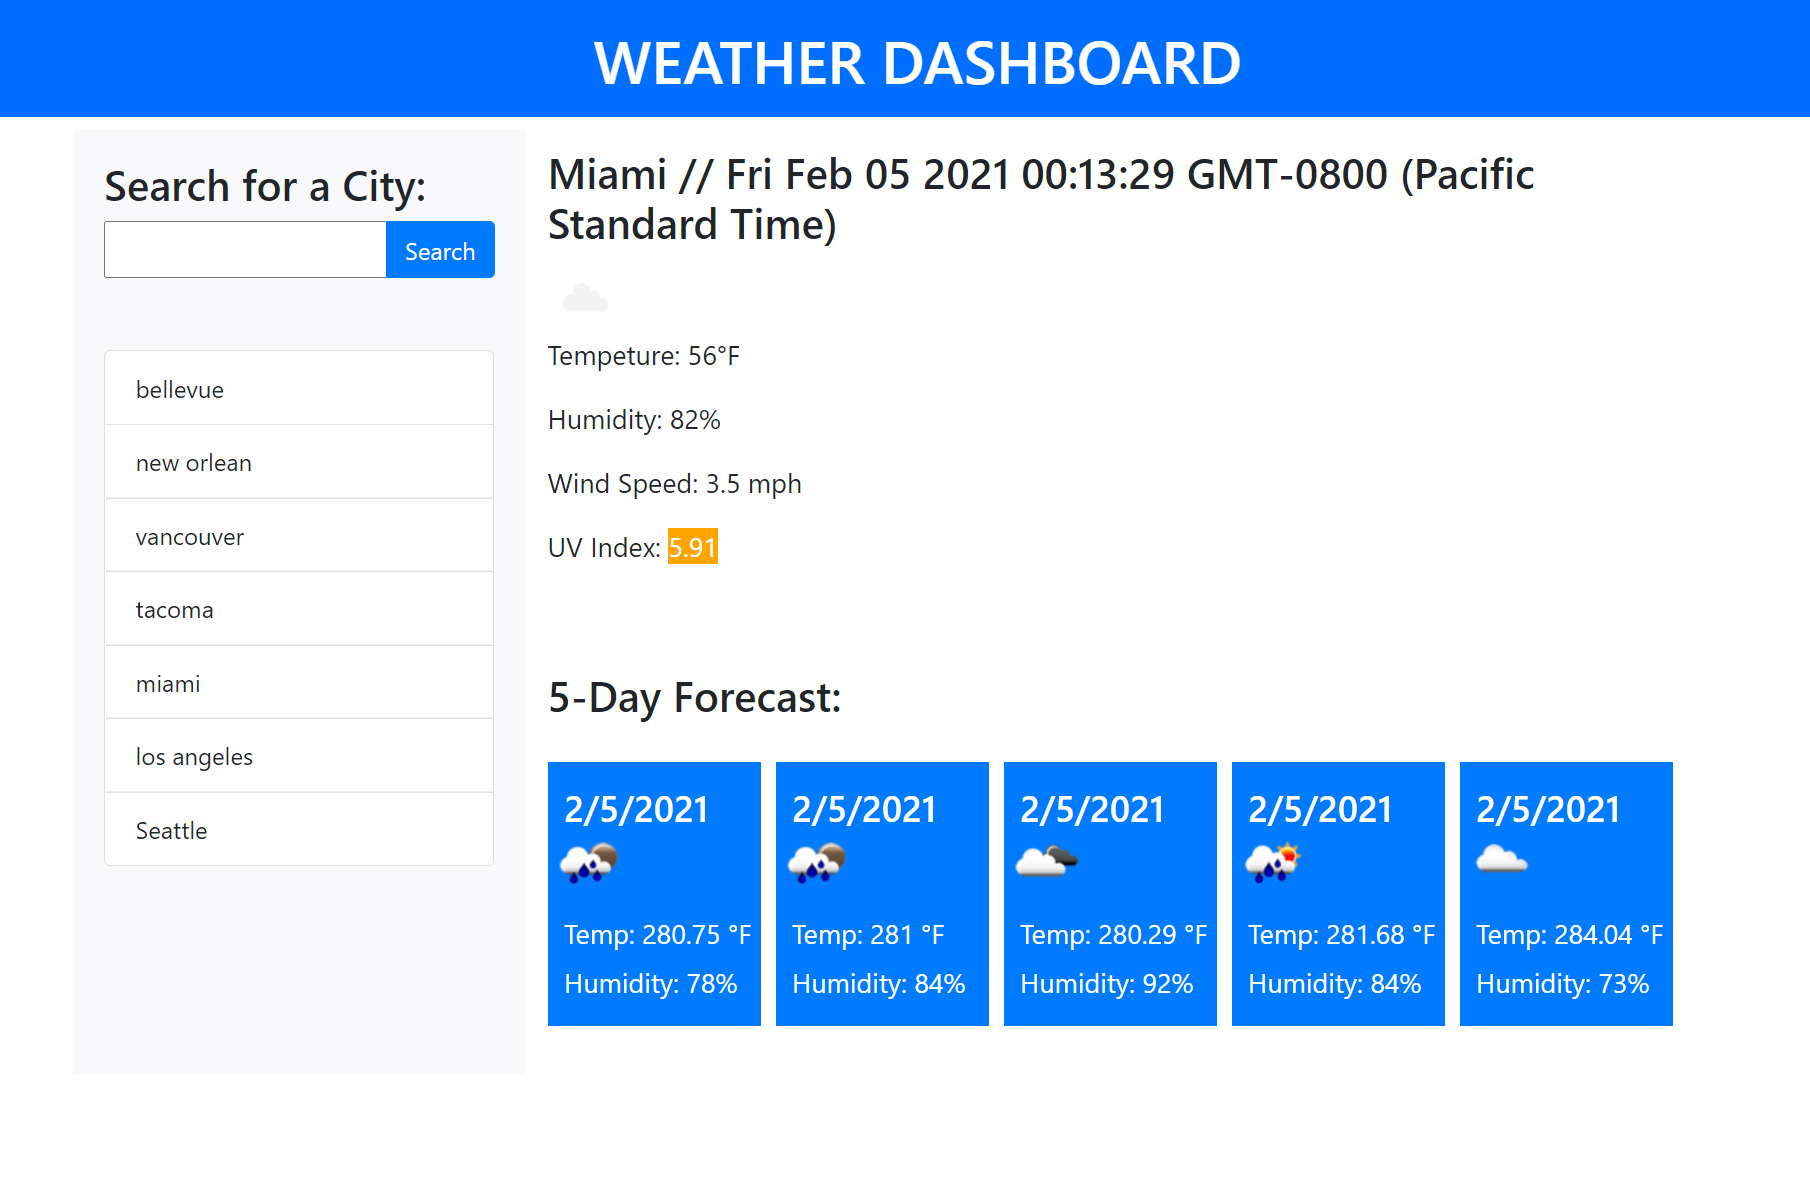
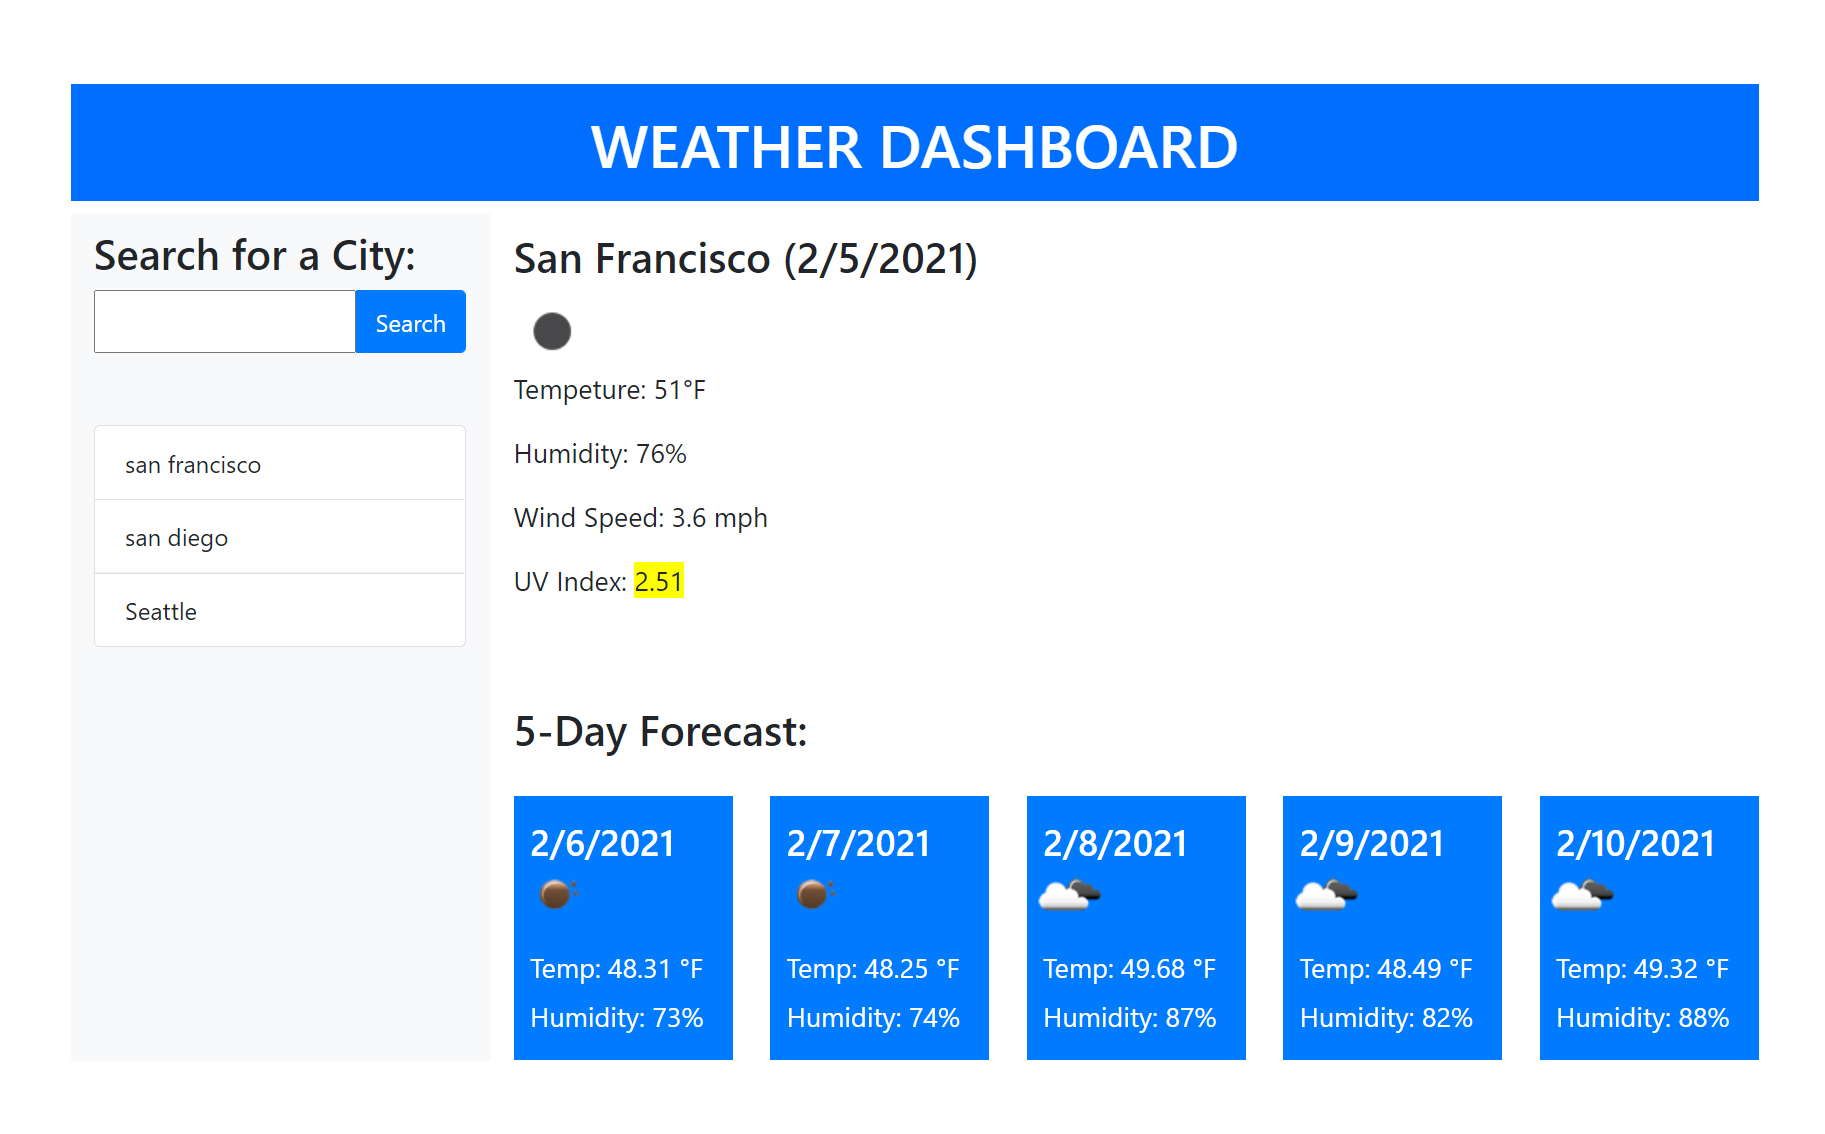
styled and re-aligned all columns

diff --git a/index.html b/index.html
@@ -19,17 +19,15 @@
 </head>
 
 <body>
-  <div class="container-flex">
-    <h1 class="header">WEATHER DASHBOARD</h1>
-  </div>
-
-  <!-- Search box & search history -->
   <div class="container">
+    <h1 class="header">WEATHER DASHBOARD</h1>
+
+    <!-- Search box & search history -->
     <div class="row">
-      <div class="search-box bg-light">
+      <div class="search-box bg-light" style="width: 280px;">
         <h3>Search for a City:</h3>
         <div class="input-group">
-          <input type="text" class="class=" col-sm-4 col-form-label id="city-input" aria-describedby="basic-addon2">
+          <input type="text" class="col-form-label" id="city-input" aria-describedby="basic-addon2" style="width: 175px;">
 
           <div class="input-group-append">
             <button class="btn btn-primary my-2 my-sm-0" type="submit" id="add-city">Search</button>
@@ -39,14 +37,14 @@
 
         <br></br>
 
-        <div class="card" style="width: 260px;">
+        <div class="card" style="width: 248px;">
           <ul id="city-list" class="list-group list-group-flush">
           </ul>
         </div>
       </div>
 
       <!-- Current weather -->
-      <div class="col-8 forecast">
+      <div class="col-9 forecast">
         <div id="today-weather">
         </div>
 
@@ -71,7 +69,7 @@
     integrity="sha384-OgVRvuATP1z7JjHLkuOU7Xw704+h835Lr+6QL9UvYjZE3Ipu6Tp75j7Bh/kR0JKI"
     crossorigin="anonymous"></script>
   <script src="https://cdnjs.cloudflare.com/ajax/libs/jquery/3.2.1/jquery.min.js"></script>
-  <script src="index.js"></script>
+  <script src="script.js"></script>
 </body>
 
 </html>

diff --git a/script.js b/script.js
@@ -79,7 +79,7 @@ function getCurrentWeather(cityName) {
         method: "GET"
     }).then(function (response) {
 
-        cityTitle = $("<h3>").text(response.name + " // " + " " + FormatDay());
+        cityTitle = $("<h3>").text(response.name + " (" + new Date().toLocaleDateString() + ")");
         $("#today-weather").append(cityTitle);
 
         var weatherIcon = $("<img>").attr("src", "https://openweathermap.org/img/wn/" + response.weather[0].icon + ".png");
@@ -144,7 +144,7 @@ function renderforecast(cityName) {
             var fiveDate = $("<h4>").addClass("card-text").text(new Date(forecastFive.list[i].dt_txt).toLocaleDateString());
 
             var colFive = $("<div>").addClass("card-body");
-            var cardFive = $("<div>").addClass("card-md-2 bg-primary text-white");
+            var cardFive = $("<div>").addClass("card-md-3 bg-primary text-white");
             var cardBodyFive = $("<div>").addClass("card-body p-2");
 
             var weatherIcon = $("<img>").attr("src", "https://openweathermap.org/img/w/" + forecastFive.list[i].weather[0].icon + ".png");

diff --git a/style.css b/style.css
@@ -1,4 +1,5 @@
 .header{
+  margin-top: 100px;
   margin-left: -15px;
   background-color: rgb(0, 110, 255);
   background-size: 1000px;
@@ -8,7 +9,15 @@
 }
 
 .search-box{
-  padding: 20px;
+  padding: 10px;
+  height: 565px;
+  padding-left: 15px;
+  width: 255px;;
+}
+
+.btn{
+  padding-top: px;
+  margin: 1px;
 }
 
 .forecast{  
@@ -17,8 +26,8 @@
 }
 
 .card-body{
-  width: 181px;
-  margin-right: -25px;
+  width: 180px;
+  margin-right: -10px;
   margin-left: -5px;
 }
 
